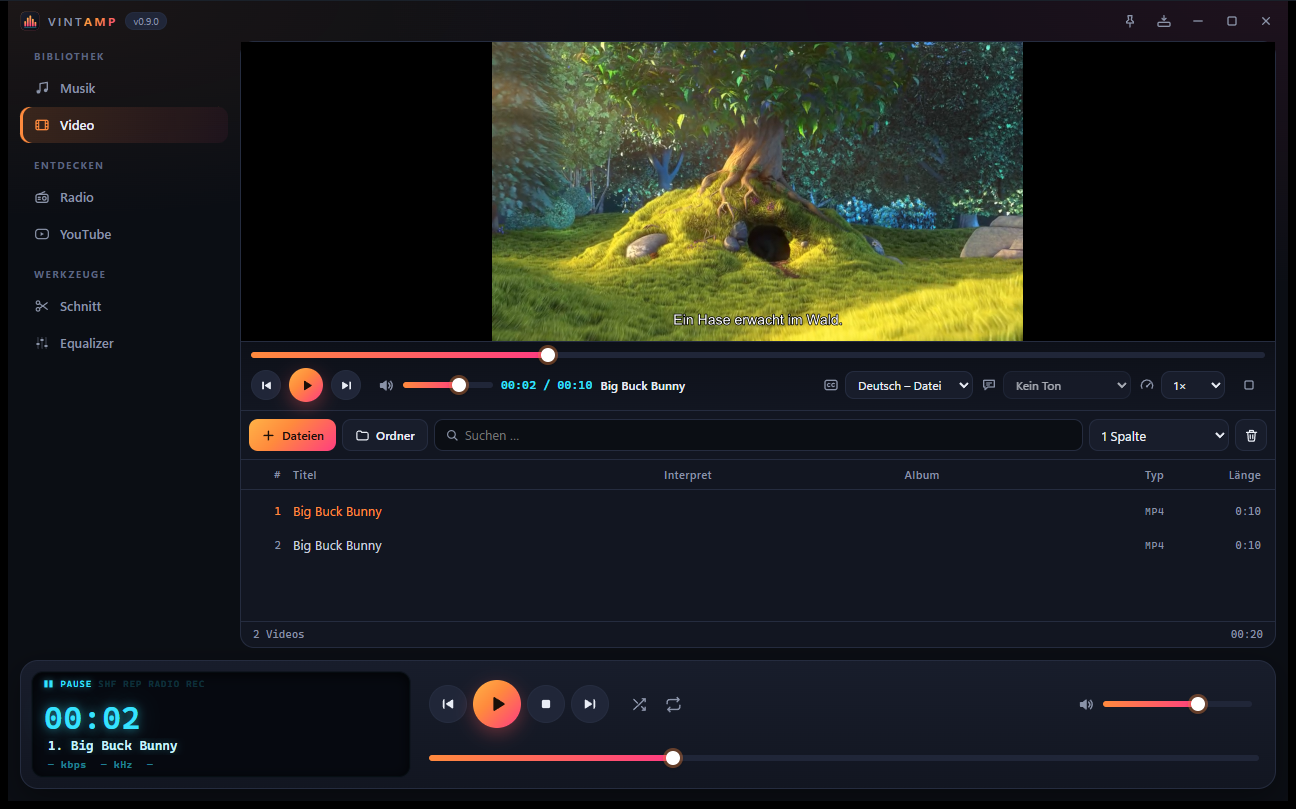
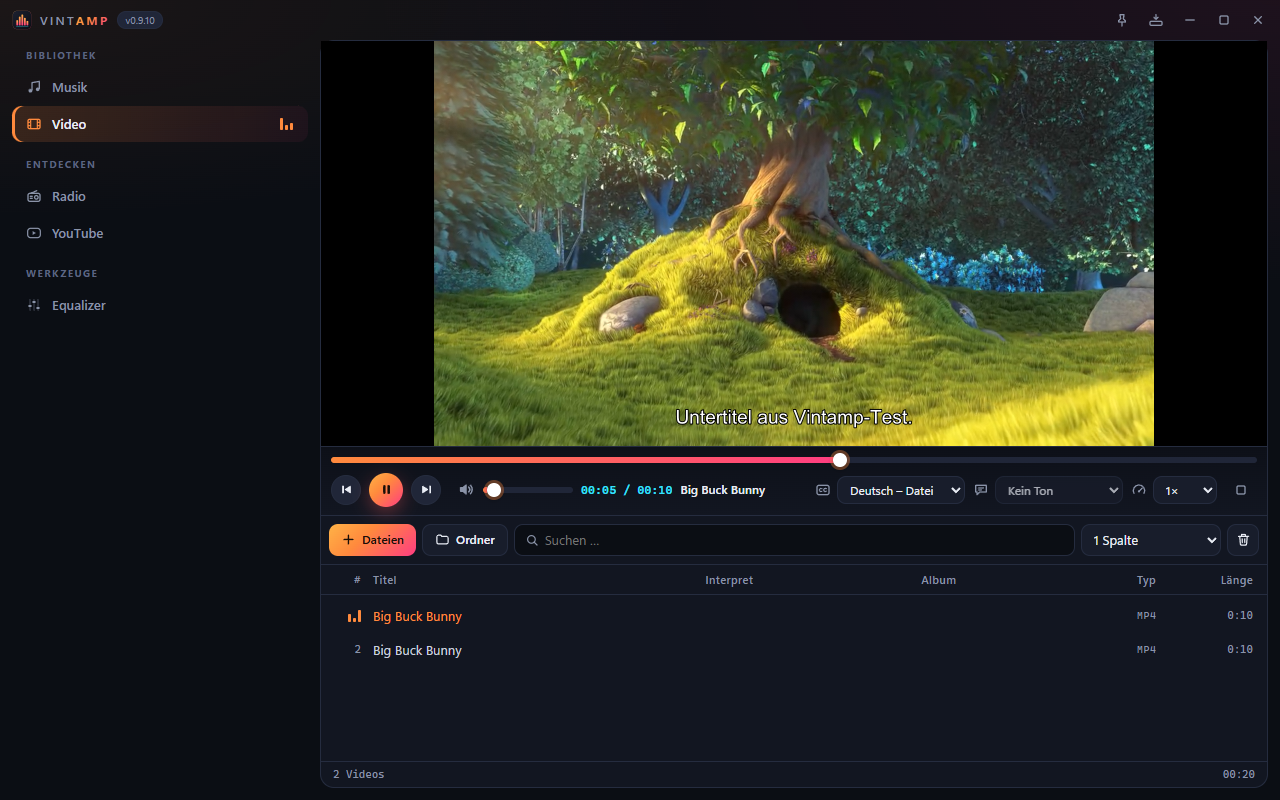
Docs: Video ohne doppelte Leiste (v0.9.10)

diff --git a/README.md b/README.md
@@ -73,7 +73,8 @@ MIDI mit Spur-Ansicht, 10-Band-Equalizer, 16 Visualizer und Mini-Modus – im mo
 - Spielt praktisch jedes Audioformat: MP3, FLAC, OGG/Opus, AAC/M4A, WAV, WMA, APE und mehr
 - Videos (MP4, MKV, WebM, AVI …) laufen direkt im Vintamp-Fenster im Reiter „Video“ – oben der
   Player, darunter die Videoliste; die Bedienleiste (Spulen, Zurück/Play/Weiter, Lautstärke, Zeit,
-  Untertitel, Tonspur, Tempo, Vollbild) sitzt direkt unter dem Bild; Klick ins Bild pausiert, Doppelklick oder F
+  Untertitel, Tonspur, Tempo, Vollbild) sitzt direkt unter dem Bild – die Player-Leiste unten macht dann Platz;
+  Klick ins Bild pausiert, Doppelklick oder F
   schaltet Vollbild an und aus, Esc zurück – im Vollbild nur das Bild: bei Mausbewegung blendet die
   Bedienleiste (Spulen, Zeit, Weiter/Zurück, Untertitel, Lautstärke) weich darüber ein und wieder aus
 - Untertitel ein- und ausschalten oder eine Untertiteldatei (SRT, ASS, VTT …) laden – passende

diff --git a/README.en.md b/README.en.md
@@ -75,7 +75,8 @@ MIDI with a track view, 10-band equalizer, 16 visualizers and a mini mode – in
 - Plays practically every audio format: MP3, FLAC, OGG/Opus, AAC/M4A, WAV, WMA, APE and more
 - Videos (MP4, MKV, WebM, AVI …) play right inside the Vintamp window in the “Video” tab – player
   on top, video list below; the control bar (seeking, previous/play/next, volume, time, subtitles,
-  audio track, speed, full screen) sits right below the picture; click the picture to pause, double-click or F
+  audio track, speed, full screen) sits right below the picture – the player bar at the bottom makes room;
+  click the picture to pause, double-click or F
   toggles full screen, Esc to go back – full screen shows just the picture: move the mouse and the
   control bar (seeking, time, next/previous, subtitles, volume) fades in over it and out again
 - Turn subtitles on and off or load a subtitle file (SRT, ASS, VTT …) – matching files next to the
